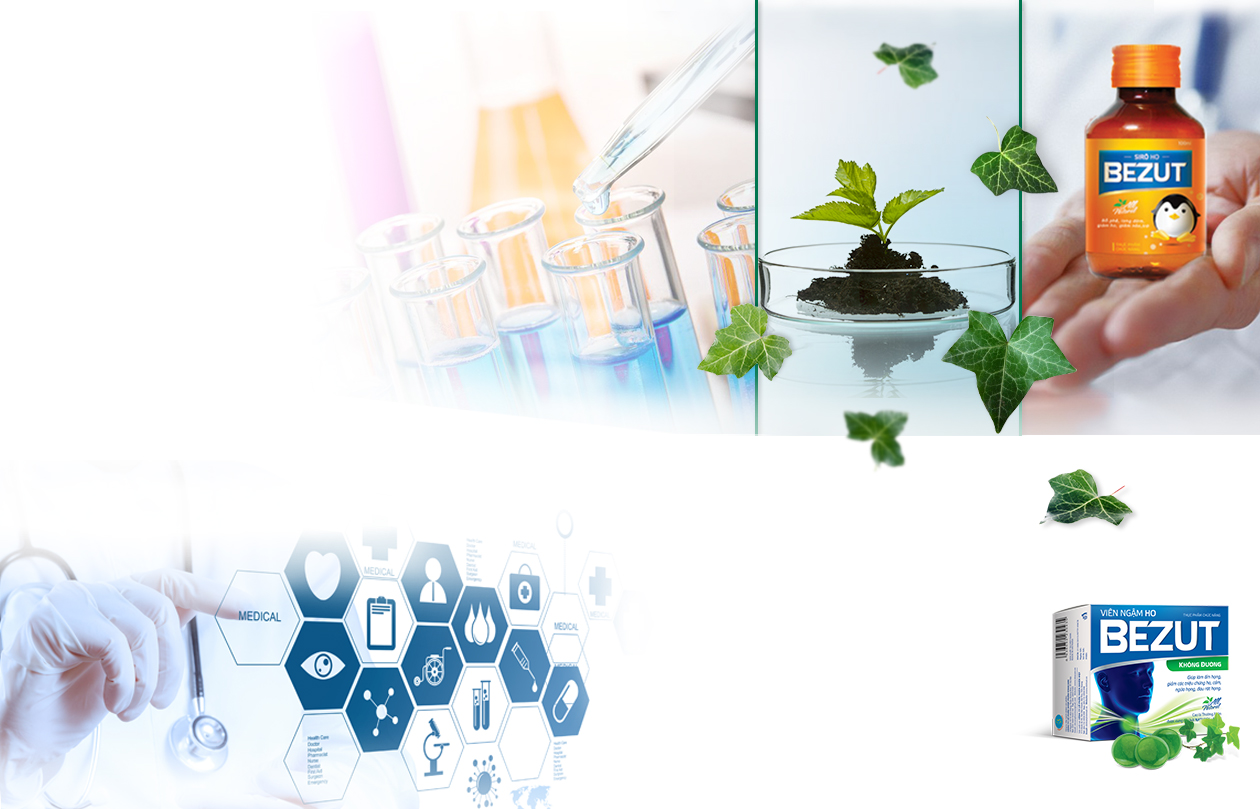
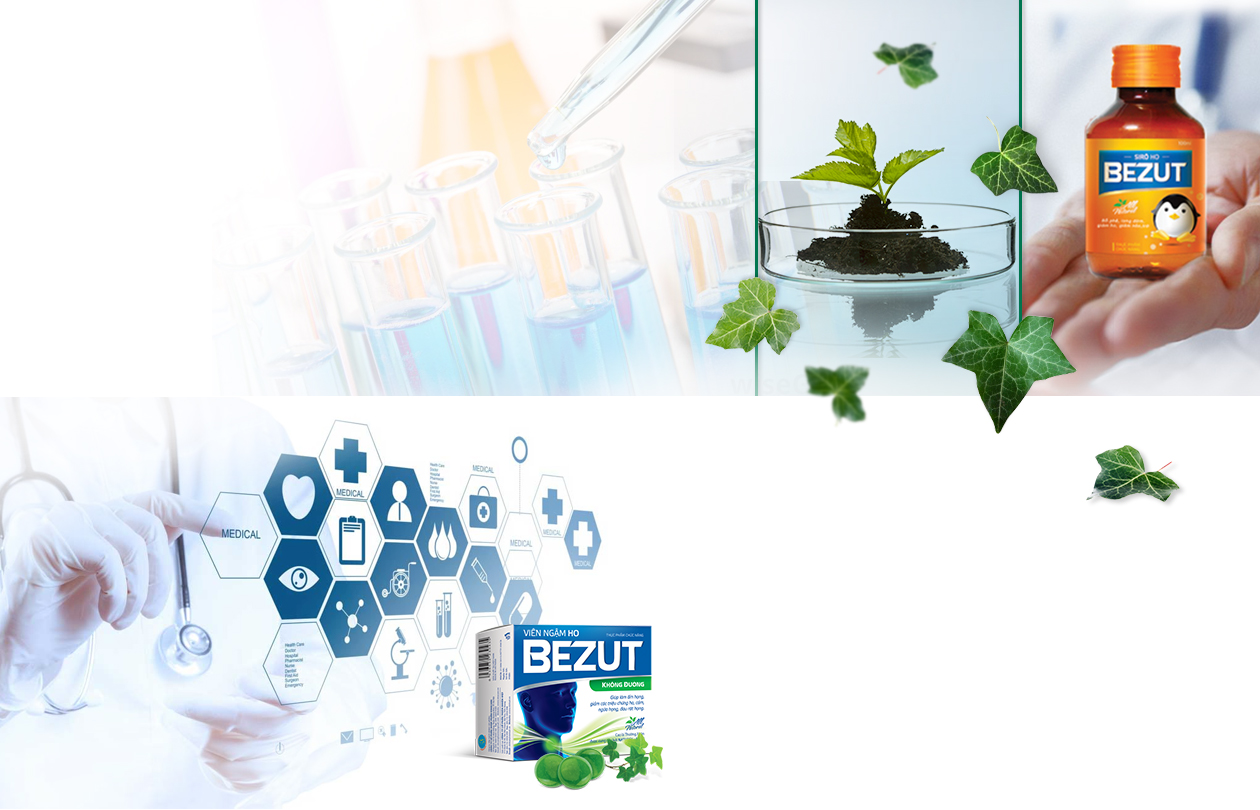
16-03-2016

diff --git a/3-source/bezut_Source/assets/styles/StyleSheet.css b/3-source/bezut_Source/assets/styles/StyleSheet.css
@@ -35,6 +35,16 @@ body {
         padding: 0 15px;
         width: 570px;
     }
+    .row .col-xs-8 {
+        float: right;
+        width: 690px;
+    }
+.ph100 {
+    margin-top: 100px;
+}
+.pl140 {
+    padding-left: 140px;
+}
 .box-head h5 {
     color: #9a7b3d;
     font-size: 18px;
@@ -82,10 +92,10 @@ p {
     background-image: url(../images/nghiencuu/bgm-2.jpg);
     color: #fff;
     font-size: 16px;
-    line-height: 30px;
+    line-height: 24px;
 }
     #boxgroup-2 .box-text {
-        padding-top: 200px;
+        padding-top: 300px;
         padding-left: 70px;
         position: relative;
         width: 685px;
@@ -95,8 +105,9 @@ p {
         right: 0;
         top: 35px;
         position: absolute;
+        overflow: hidden;
         z-index: 0;
-        width: 775px;
+        width: 745px;
     }
 #boxgroup-2 img {
     display: block;
@@ -127,18 +138,35 @@ p {
         font-weight: 700;
     text-align: center;
     }
-#boxgroup-2 .groupa-1 {
+#boxgroup-2 .group-content .groupa-1 {
     margin-right: 45px;
 }
-#boxgroup-2 .groupa-2 {
+#boxgroup-2 .group-content .groupa-2 {
     margin-right: 40px;
 }
-#boxgroup-2 .groupa-3 {
+#boxgroup-2 .group-content .groupa-3 {
     margin-top: -15px;
 }
-#boxgroup-2 .groupa-4 {
+#boxgroup-2 .group-content .groupa-4 {
     float: right;
     margin-top: -65px;
+}
+#boxgroup-2 .gourp-img .group-text {
+    width: 200px;
+}
+.gourp-img .group-node {
+    padding: 0;
+}
+#boxgroup-2 .gourp-img .groupa-1 {
+    top: -140px;
+    margin-right: 65px;
+}
+#boxgroup-2 .gourp-img .groupa-2 {
+    top: -130px;
+    margin-right: 10px;
+}
+#boxgroup-2 .gourp-img .groupa-3 {
+    width: 230px;
 }
 .mp15 {
     margin-bottom: 15px;
@@ -165,7 +193,7 @@ p {
     }
     #boxgroup-3 .group-img {
         left: 0;
-        top: -35px;
+        top: 0;
         position: absolute;
         width: 100%;
         z-index: 0;
@@ -175,16 +203,16 @@ p {
     width: 100%;
     z-index: 1;
 }
-    #boxgroup-3 .group-bg .box-text {
+    #boxgroup-3 .box-text {
         padding: 45px 0;
         position: relative;
-        width: 630px;
+        width: 550px;
         z-index: 10;
     }
-        #boxgroup-3 .group-bg .description {
+        #boxgroup-3 .box-text .description {
             font-style: italic;
-            padding: 30px 0;
-            width: 495px;
+            margin-bottom: 30px;
+            width: 550px;
         }
         #boxgroup-3 .box-text .desl {
             background: url(../images/nghiencuu/bl.png) no-repeat left top;
@@ -204,7 +232,7 @@ p {
     width: 100%;
     z-index: 10;
 }
-.box-group .wrapper-in {
+/*.box-group .wrapper-in {
     background: url(../images/nghiencuu/box-top.png) no-repeat left top;
     margin-top: -86px;
     float: left;
@@ -221,7 +249,7 @@ p {
 }
 #boxgroup-3 .group-text {
     padding-bottom: 20px;
-}
+}*/
 #boxgroup-3 .group-text h6 {
     background: url(../images/nghiencuu/titbg.png) no-repeat right top;
     color: #fff;
@@ -265,36 +293,69 @@ p {
 .group-b {
     background-color: #fff;
     position: relative;
-    padding-bottom: 30px;
     width: 100%;
+}
+    .group-b .wrapper-in {
+        padding: 50px 0 40px;
+    overflow: hidden;
+    width: 100%;
+    }
+#boxgroup-3 .group-b h5 {
+    float: left;
+    padding-right: 85px;
+}
+#boxgroup-3 .group-b .box-text {
+    background: url(../images/nghiencuu/line.png) repeat-y left top;
+    font-size: 16px;
+    line-height: 24px;
+    overflow: hidden;
+    padding: 0 0 0 15px;
+    margin-top: 30px;
+    width: 470px;
 }
 /*==================*/
 #boxgroup-4 .group-a {
     background: url(../images/nghiencuu/bgm-4.jpg) no-repeat right bottom;
-    min-height: 524px;
 }
 #boxgroup-4 .box-text {
-    padding: 25px 0;
+    color: #7d7d7d;
+        font-family: 'Open Sans', Arial, sans-serif;
+    font-size: 14px;
+    line-height: 24px;
+    min-height: 741px;
+    padding-top: 30px;
+    position: relative;
     width: 670px;
 }
-    #boxgroup-4 .box-text h5 {
-        color: #0065b3;
-        font-family: 'Open Sans', Arial, sans-serif;
-        font-size: 30px;
-        font-weight: 400;
-        line-height: 42px;
-        padding-left: 20px;
-        margin-bottom: 10px;
+    #boxgroup-4 .box-text ul {
+        list-style: none;
+        padding: 0;
+        margin: 0;
     }
+        #boxgroup-4 .box-text ul li {
+            padding-bottom: 10px;
+        }
+    #boxgroup-4 .box-text strong {
+        color: #3e3e3e;
+        font-weight: 700;
+    }
+    #boxgroup-4 .box-text h5 {
+        color: #00754f;
+        font-size: 18px;
+        font-weight: 600;
+        line-height: 30px;
+        margin-bottom: 5px;
+    }
+#boxgroup-4 .box-img {
+    bottom: 0;
+    left: 0;
+    position: absolute;
+}
 #boxgroup-4 .ml105 {
     padding-left: 105px;
 }
 #boxgroup-4 .ml120 {
     padding-left: 120px;
-}
-#boxgroup-4 .box-img {
-    margin-bottom: 20px;
-    margin-left: 105px;
 }
 #boxgroup-4 .description {
     color: #3e3e3e;
@@ -368,3 +429,21 @@ p {
     width: 100%;
     position: absolute;
 }*/
+
+#boxgroup-5 {
+    background: url(../images/nghiencuu/bgm-2b.jpg) no-repeat left center;
+    background-size: cover;
+    min-height: 490px;
+}
+#boxgroup-5 .box-text {
+    color: #583800;
+    font-size: 16px;
+    line-height: 24px;
+    overflow: hidden;
+    padding-top: 90px;
+    width: 100%;
+}
+    #boxgroup-5 .box-wrap {
+        float: right;
+        width: 460px;
+    }
